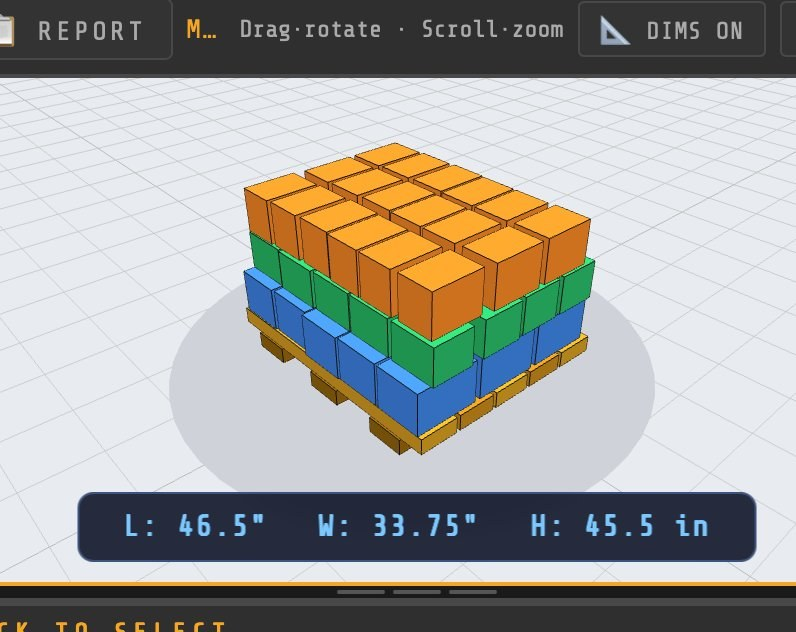
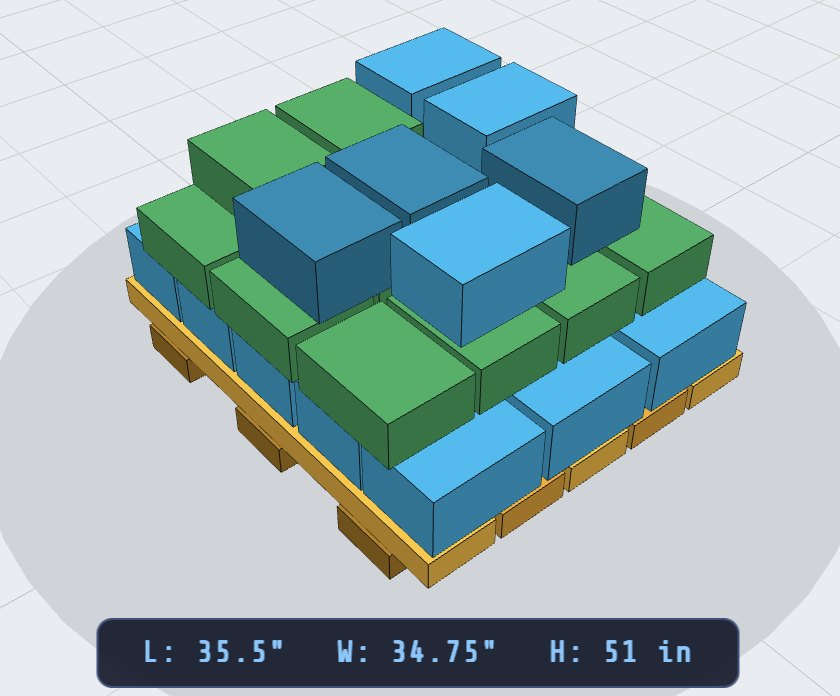
Add files via upload

diff --git a/components/TiHiDemo.js b/components/TiHiDemo.js
@@ -11,10 +11,11 @@ import Link from "next/link";
 import { useMemo, useState } from "react";
 
 const PALLETS = [
-  { id: "gma", label: "48 × 40 GMA", L: 48, W: 40 },
-  { id: "eur", label: "EUR 1200 × 800", L: 47.24, W: 31.5 },
-  { id: "sq42", label: "42 × 42", L: 42, W: 42 },
-  { id: "sq48", label: "48 × 48", L: 48, W: 48 },
+  { id: "full", label: "Full (48 × 40″)", L: 48, W: 40 },
+  { id: "half", label: "Half (48 × 20″)", L: 48, W: 20 },
+  { id: "quarter", label: "Quarter (24 × 20″)", L: 24, W: 20 },
+  { id: "sixth", label: "Sixth (16 × 20″)", L: 16, W: 20 },
+  { id: "custom", label: "Custom" },
 ];
 
 const EXAMPLES = [[16, 12, 10], [15, 11, 8], [18, 13, 11]];
@@ -85,11 +86,18 @@ export default function TiHiDemo() {
   const [cw, setCw] = useState("8");
   const [ch, setCh] = useState("9");
   const [maxH, setMaxH] = useState("48");
-  const [palId, setPalId] = useState("gma");
-  const pal = PALLETS.find((p) => p.id === palId);
+  const [palId, setPalId] = useState("full");
+  const [customL, setCustomL] = useState("48");
+  const [customW, setCustomW] = useState("40");
+  const isCustom = palId === "custom";
+  const pal = isCustom
+    ? { L: num(customL), W: num(customW) }
+    : PALLETS.find((p) => p.id === palId);
 
   const r = useMemo(() => {
     const L = num(cl), Wd = num(cw), Ht = num(ch), M = num(maxH);
+    if (!pal.L || !pal.W) return { err: "Enter your custom pallet length and width." };
+    if (pal.L > 120 || pal.W > 120) return { err: "Custom pallets up to 120 in are supported here." };
     if (!L || !Wd || !Ht || !M) return { err: "Enter all four sizes to see a layer." };
     if (Math.min(L, Wd) < 1.5) return { err: "Cases under 1.5 in are best handled in the full app." };
     if (Math.min(L, Wd) > Math.max(pal.L, pal.W) || (L > pal.L && L > pal.W) || (Wd > pal.L && Wd > pal.W))
@@ -100,7 +108,8 @@ export default function TiHiDemo() {
     if (!hi) return { err: "The case is taller than your max load height." };
     const fp = (n * L * Wd) / (pal.L * pal.W);
     return { n, hi, total: n * hi, fp, rects };
-  }, [cl, cw, ch, maxH, pal]);
+    // eslint-disable-next-line react-hooks/exhaustive-deps
+  }, [cl, cw, ch, maxH, palId, customL, customW]);
 
   const field = (id, label, v, set) => (
     <label className="td-field" htmlFor={id}>
@@ -141,6 +150,12 @@ export default function TiHiDemo() {
             </button>
           ))}
         </div>
+        {isCustom && (
+          <div className="td-row td-row--two">
+            {field("td-pl", "Pallet length", customL, setCustomL)}
+            {field("td-pw", "Pallet width", customW, setCustomW)}
+          </div>
+        )}
         <div className="td-row td-row--one">{field("td-m", "Max load height", maxH, setMaxH)}</div>
         <div className="td-try">
           <span>Try:</span>
@@ -159,11 +174,11 @@ export default function TiHiDemo() {
       <div className="td-out" aria-live="polite">
         <div className="td-canvas">
           <svg
-            viewBox={`${-pad} ${-pad} ${pal.L + pad * 2} ${pal.W + pad * 2}`}
+            viewBox={`${-pad} ${-pad} ${(pal.L || 48) + pad * 2} ${(pal.W || 40) + pad * 2}`}
             role="img"
             aria-label={r.err ? r.err : `Best block layer: ${r.n} cases per layer`}
           >
-            <rect x="0" y="0" width={pal.L} height={pal.W} rx="0.6" className="td-pal" />
+            <rect x="0" y="0" width={pal.L || 48} height={pal.W || 40} rx="0.6" className="td-pal" />
             {!r.err &&
               r.rects.map((c, i) => (
                 <rect

diff --git a/app/page.js b/app/page.js
@@ -5,14 +5,14 @@
 //   components/HeroPallet.js
 //   components/TiHiDemo.js
 //   components/HomeMotion.js
-// Uses existing assets only: /screenshots/*.jpg and the software tour video.
+// Uses the screenshots in /public/screenshots/.
 
 import Link from "next/link";
 import "./home.css";
 import HeroPallet from "@/components/HeroPallet";
 import TiHiDemo from "@/components/TiHiDemo";
 import Testimonial from "@/components/Testimonial";
-import { RevealObserver, LoopVideo } from "@/components/HomeMotion";
+import { RevealObserver } from "@/components/HomeMotion";
 
 export const metadata = {
   title: { absolute: "Betsel Stack™ — Pallet Pattern Software in Your Browser" },
@@ -41,6 +41,7 @@ const CHAPTERS = [
     body: "Stack different case sizes on one pallet, layer by layer, and see the finished unit load in 3D before anyone builds it.",
     img: "/screenshots/mixed-3d.jpg",
     alt: "3D view of a mixed-case pallet with three case sizes",
+    narrow: true,
   },
   {
     tag: "Trailer loading",
@@ -132,7 +133,7 @@ export default function HomePage() {
               </h2>
               <p className="hm-lede">{c.body}</p>
             </div>
-            <figure className={`hm-shot rv ${c.wide ? "hm-shot--wide" : ""}`}>
+            <figure className={`hm-shot rv ${c.wide ? "hm-shot--wide" : ""} ${c.narrow ? "hm-shot--narrow" : ""}`}>
               <img src={c.img} alt={c.alt} loading="lazy" decoding="async" />
             </figure>
           </div>
@@ -154,13 +155,6 @@ export default function HomePage() {
               engineering report with dimensions, efficiency, stability, and
               weights, ready for your customer or your floor.
             </p>
-          </div>
-          <div className="hm-video rv">
-            <LoopVideo
-              src="/betsel-software-tour.mp4"
-              poster="/betsel-software-tour-poster.jpg"
-              label="Betsel Stack building a pallet pattern, checking it in 3D, loading a trailer, and exporting a report"
-            />
           </div>
           <p className="hm-center rv">
             <Link href="/software#watch" className="hm-textlink">
@@ -197,20 +191,6 @@ export default function HomePage() {
         </div>
       </section>
 
-      {/* ============ ORIGIN ============ */}
-      <section className="hm-origin">
-        <div className="container hm-origin-inner rv">
-          <p className="hm-tag">Who builds it</p>
-          <h2 className="hm-h2">Made by people who build packaging machines.</h2>
-          <p className="hm-lede">
-            Betsel Stack comes from the team at Knapp Built Machines, a
-            family-owned maker of agricultural packaging and vegetable
-            processing equipment in Hammonton, New Jersey. We spend our days
-            around packing lines, cases, and pallets, and we built Betsel Stack
-            around the questions packaging engineers actually ask.
-          </p>
-        </div>
-      </section>
 
       {/* ============ TESTIMONIAL ============ */}
       <div className="rv">

diff --git a/app/home.css b/app/home.css
@@ -205,6 +205,7 @@
 }
 .td-step:not(:first-child) { margin-top: 30px; }
 .td-row { display: grid; grid-template-columns: repeat(3, 1fr); gap: 10px; }
+.td-row.td-row--two { grid-template-columns: repeat(2, minmax(0, 1fr)); max-width: 360px; margin-top: 14px; }
 .td-row.td-row--one { grid-template-columns: minmax(0, 1fr); max-width: 220px; margin-top: 14px; }
 .td-try { margin-top: 30px; font-size: 14px; color: var(--muted-2); display: flex; flex-wrap: wrap; align-items: center; gap: 8px; }
 .td-try button {
@@ -251,7 +252,7 @@
   color: var(--muted-2);
   font-size: 13px;
 }
-.td-chips { display: flex; flex-wrap: wrap; gap: 8px; }
+.td-chips { display: grid; grid-template-columns: repeat(2, minmax(0, 1fr)); gap: 8px; }
 .td-chips button {
   font: inherit;
   font-size: 14px;
@@ -337,6 +338,7 @@
 }
 .hm-shot img { width: 100%; height: auto; }
 .hm-shot--wide { max-width: 1160px; }
+.hm-shot--narrow { max-width: 760px; }
 
 /* ---------- video ---------- */
 .hm-video {
